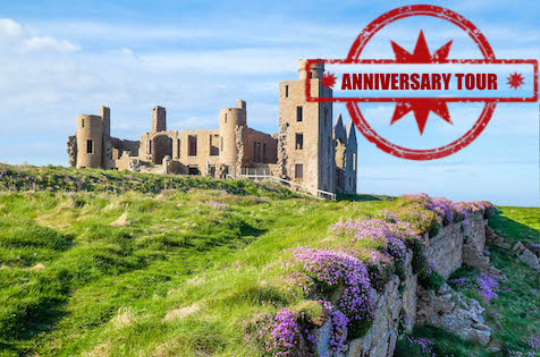
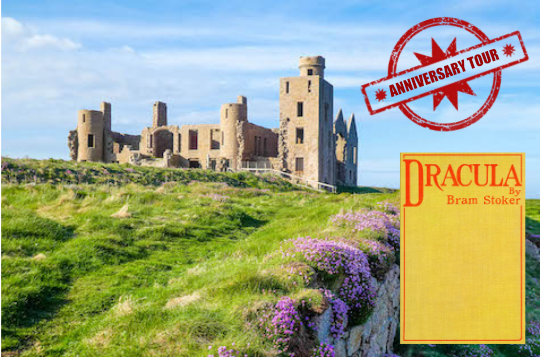
new pics

diff --git a/anniversary.html b/anniversary.html
@@ -439,9 +439,9 @@
                                     Enjoy some free time for exploring Cruden Bay at your pace, or to re-read pages of the novel to get into the atmosphere of the celebration.
 
                                     A festive dinner is served at the Kilmarnock Arms Hotel. <br>
-                                  
+                                    <img src="images/bram-stoker.png" alt="img"/>
                                     <img src="images/cliffs-mini.jpg" alt="img"/>
-
+                                    <img src="images/dacre-whitby.jpg" alt="img"/>
                                 </span>
                                 <br>
     
